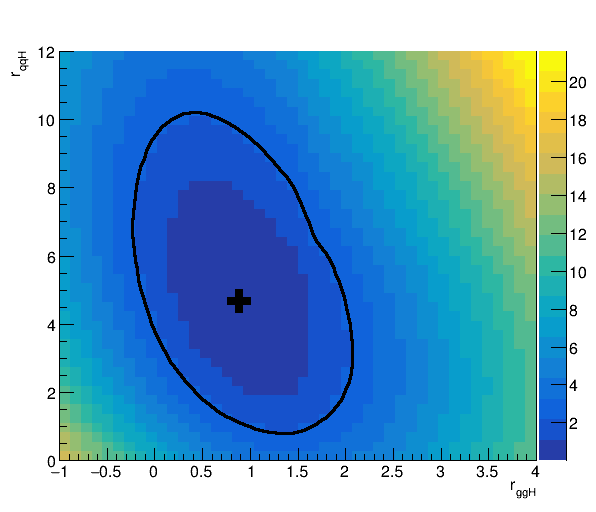
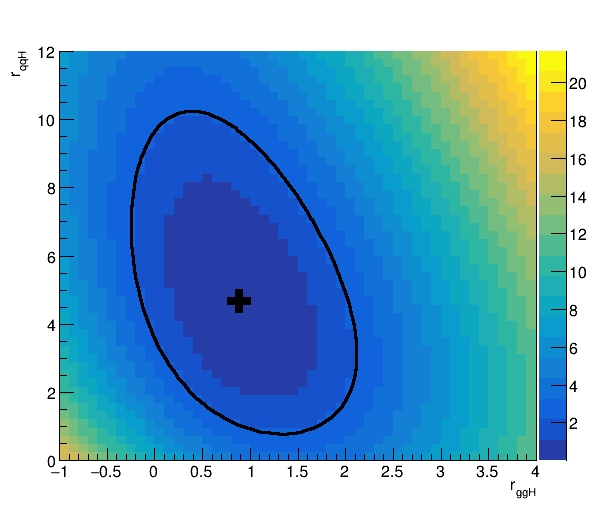
nicer figure for LH Scan

diff --git a/docs/part3/commonstatsmethods.md b/docs/part3/commonstatsmethods.md
@@ -851,13 +851,13 @@ As usual, any *floating* nuisance parameters will be *profiled*. This behaviour 
 
 For most of the methods, for lower-precision results you can turn off the profiling of the nuisance parameters by using the option `--fastScan`, which for complex models speeds up the process by several orders of magnitude. **All** nuisance parameters will be kept fixed at the value corresponding to the best fit point.
 
-As an example, let's produce the $-2\Delta\ln{\mathcal{L}}$ scan as a function of **`r_ggH`** and **`r_qqH`** from the toy $H\rightarrow\gamma\gamma$ datacard.
+As an example, let's produce the $-2\Delta\ln{\mathcal{L}}$ scan as a function of **`r_ggH`** and **`r_qqH`** from the toy $H\rightarrow\gamma\gamma$ datacard. The command below should be pretty fast, as the statistical model is quite simple,
 
 ```sh
-combine toy-hgg-125.root -M MultiDimFit --algo grid --points 2000 --setParameterRanges r_qqH=0,12:r_ggH=-1,4 -m 125
+combine toy-hgg-125.root -M MultiDimFit --algo grid --points 2500 --setParameterRanges r_qqH=0,12:r_ggH=-1,4 -m 125
 ```
 
-The scan, along with the best fit point can be drawn using ROOT using something like the script below,
+The scan, along with the best fit point and $1\sigma$ CL contour can be drawn using ROOT using something like the script below,
 
 /// details | **Show script**
 <pre class="c++"><code>
@@ -868,7 +868,7 @@ void plot2D_LHScan(){
 
   // create histogram representing -2Delta Log(L)
   TCanvas *can = new TCanvas("c","c",600,540);
-  limit->Draw("2*deltaNLL:r_qqH:r_ggH>>h(44,-1,4,44,0,12)","2*deltaNLL<50","prof colz");
+  limit->Draw("2*deltaNLL:r_qqH:r_ggH>>h(50,-1,4,50,0,12)","2*deltaNLL<50","prof colz");
   TH2F *g2NLL = (TH2F*)gROOT->FindObject("h");
 
   g2NLL->SetName("g2NLL");
